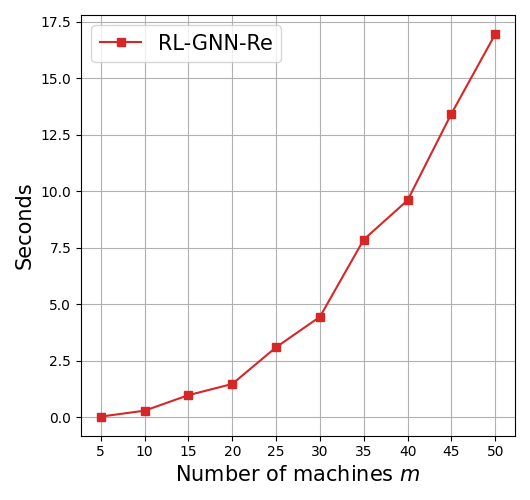
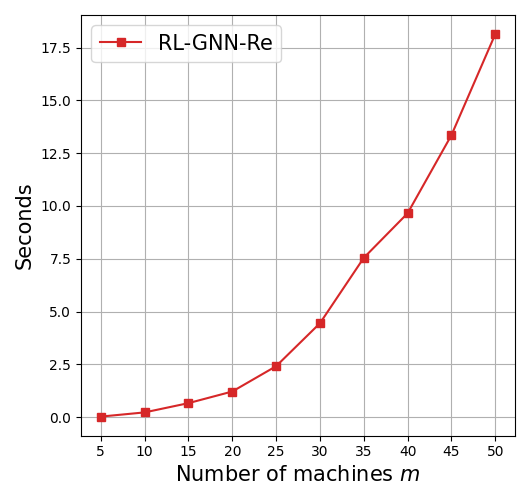
general update

diff --git a/rollout.py b/rollout.py
@@ -62,11 +62,11 @@ if __name__ == "__main__":
     numpy.random.seed(1)
     torch.manual_seed(1)
 
-    j = [5, 10, 15, 20, 25, 30, 35, 40, 45, 50]
-    m = [5 for _ in range(len(j))]
+    # j = [5, 10, 15, 20, 25, 30, 35, 40, 45, 50]
+    # m = [5 for _ in range(len(j))]
 
-    # m = [5, 10, 15, 20, 25, 30]
-    # j = [30 for _ in range(len(m))]
+    m = [5, 10, 15, 20, 25, 30, 35, 40, 45, 50]
+    j = [30 for _ in range(len(m))]
 
     # m = [5]
     # j = [30]
@@ -91,5 +91,6 @@ if __name__ == "__main__":
 
     # print(times)
 
-    numpy.save('plt/RL-GNN_complexity_fixed_m=5_reimplement.npy', np.array(times))
+    # numpy.save('plt/RL-GNN_complexity_fixed_m=5_reimplement.npy', np.array(times))
+    numpy.save('plt/RL-GNN_complexity_fixed_j=30_reimplement.npy', np.array(times))
 
